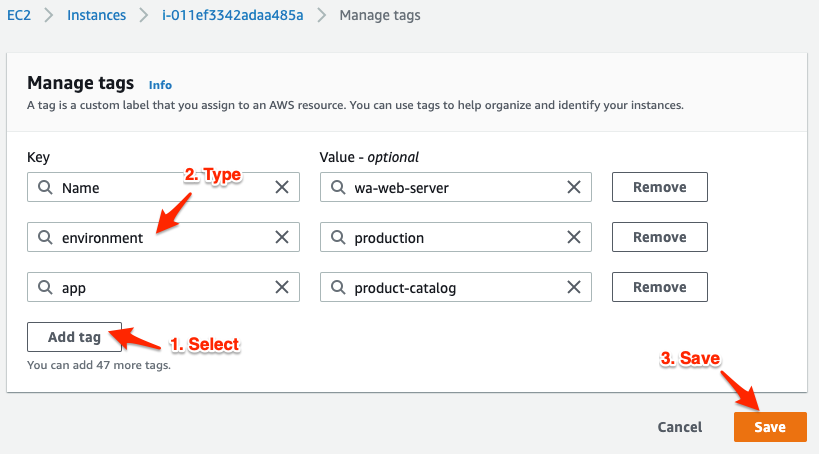
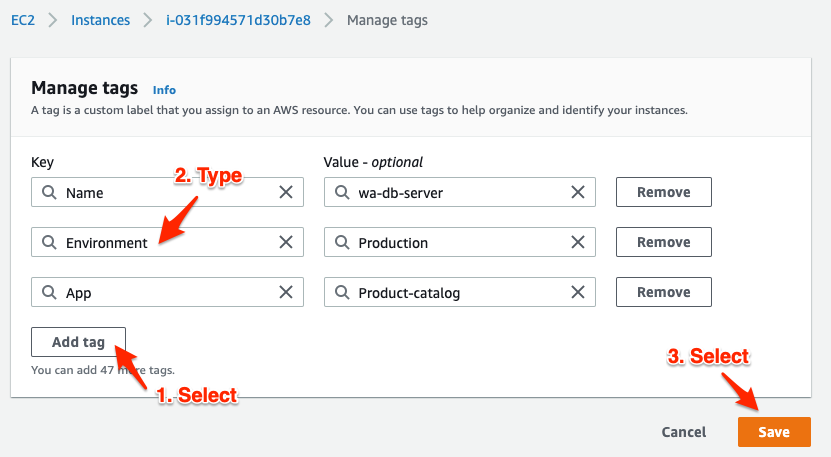
update

diff --git a/content/work2/task-3.md b/content/work2/task-3.md
@@ -4,3 +4,53 @@ chapter = false
 weight = 3
 +++
 
+A *resource group* is a collection of AWS resources in the same AWS Region that match tag-based criteria provided in a search query. A resource group can represent an application, a software component, a business unit, an environment, a team, or even an area of ownership. 
+
+You can use resource groups to perform bulk actions. For example, if you manage large numbers of related resources, such as EC2 instances that make up an application layer, you might need to perform bulk actions on these resources at one time. Other examples of bulk actions include the following:
+
+* Applying updates or security patches.
+* Upgrading an application version.
+* **Installing software** *(This is the action that we are going to use in this lab).*
+* Opening or closing ports to network traffic.
+* Collecting specific log and monitoring data.
+
+
+1. Open the **Resource Groups & Tag Editor** console. Service search box > Resource Group.
+
+<img src="../images/rg1.png" alt="drawing" width="900"/>
+
+2. Select **Create Resource Group**
+
+<img src="../images/rg2.png" alt="drawing" width="600"/>
+
+3. For **Group Type** select "Tag based".
+
+<img src="../images/rg3.png" alt="drawing" width="800"/>
+
+4. Now we are going to config **Grouping criteria**. 
+
+* For *Resource types*, select "AWS::EC2::Instance".
+
+<img src="../images/rg4.png" alt="drawing" width="600"/>
+
+* For *Tags*, select <code>App</code> and <code>Product-Catalog</code>. Clid on "Add". We will use the tags that we created in the previous task. 
+
+<img src="../images/rg5.png" alt="drawing" width="900"/>
+
+Repeat the process using <code>Environment</code> and <code>Production</code>. 
+
+<img src="../images/rg6.png" alt="drawing" width="900"/>
+
+5. Clic on **Preview group resources**. You will see both EC2 instances. Those instance will make up your Resource group.
+
+<img src="../images/rg7.png" alt="drawing" width="900"/>
+
+
+6. For **Group details** type:
+
+* Group name: <code>rg-wa</code>
+* Group description: <code>Resource Group for Well-Architected Labs</code>
+
+7. Clic on "Create Group". 
+
+<img src="../images/rg8.png" alt="drawing" width="900"/>

diff --git a/content/work2/_index.md b/content/work2/_index.md
@@ -14,7 +14,7 @@ Remember that one of the insights found in the Well-Architected Framework Review
 
 ## Objective
 
-In this Lab you will use AWS Systems Manager according to the “Perform operations as code” design principle. You will create a Resource Group with both EC2 instances and use the “Run command” option in SSM to install a CW agent for collecting logs. The tasks in this Lab will guide you through the steps to achive this objective.
+In this Lab you will use AWS Systems Manager according to the **“Perform operations as code”** design principle. You will create a Resource Group with both EC2 instances and use the “Run command” option in SSM to install a CW agent for collecting logs. The tasks in this Lab will guide you through the steps to achive this objective.
 
 ## Services
 

diff --git a/content/work2/task-1.md b/content/work2/task-1.md
@@ -8,7 +8,7 @@ weight = 1
 
 The product catalog is a Web Application that was recently migrated from On-premises to the AWS Cloud. This is a fundamental application for The New Company customer. Since it was migrated using a simple lift and shift process, into the AWS Cloud this application is made up of two EC2 instances, one for the Web Server and other one for the database (MariaDB). Users access the application through the Internet. 
 
-1. Make sure that your AWS console session is using Oregon region.
+1. Make sure that your AWS console session is using Oregon region (This lab uses us-east-2 as default region).
 
 <img src="../images/region.png" alt="drawing" width="600"/>
 

diff --git a/content/work2/task-2.md b/content/work2/task-2.md
@@ -19,3 +19,4 @@ that can make it easier to manage, search for, and filter resources. Tags are a 
 
 <img src="../images/tag2.png" alt="drawing" width="800"/>
 
+3. Follow steps **1.** and **2.** for the DB server (wa-db-server)
